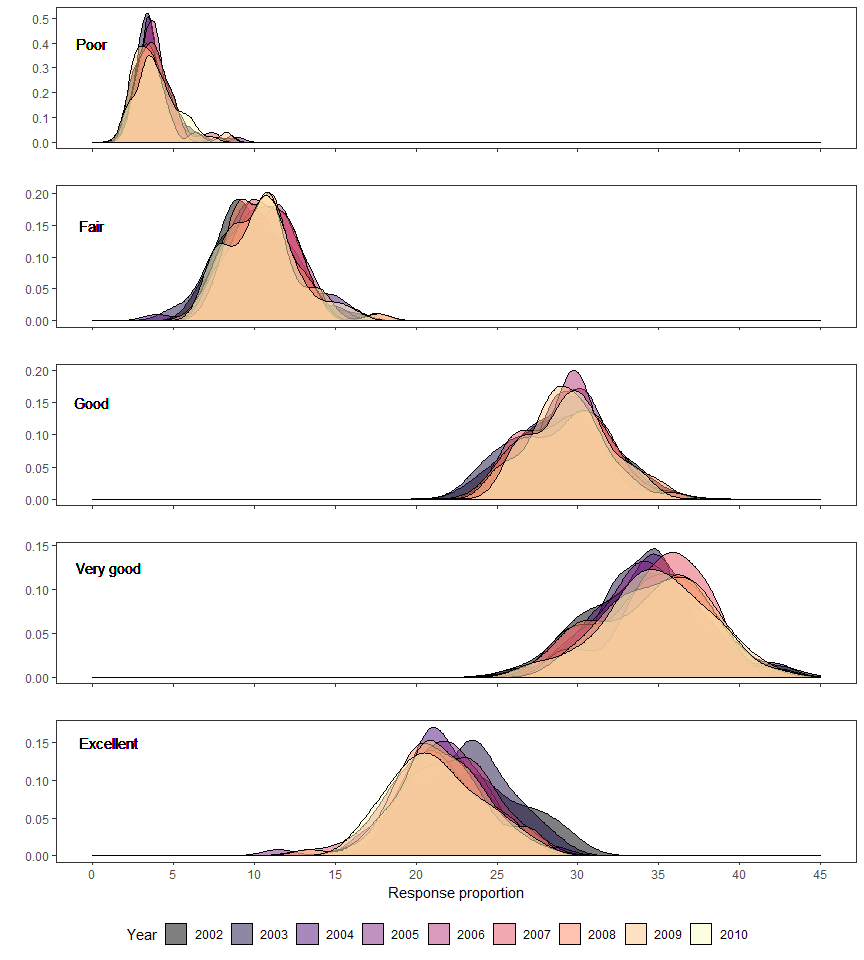
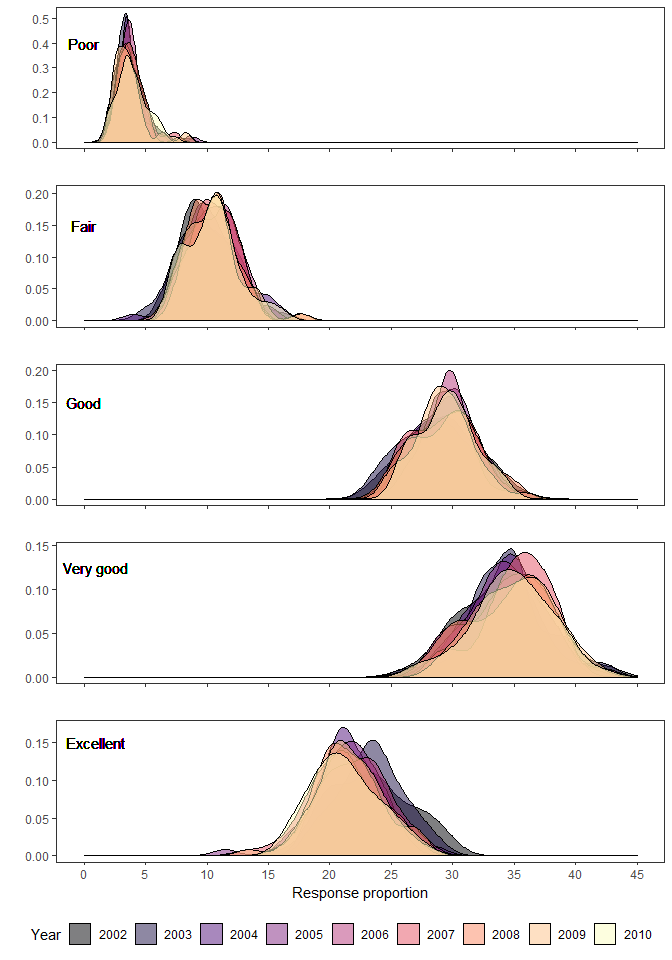
stylistic changes to figures

diff --git a/p8105_hw3_ntw2117.md b/p8105_hw3_ntw2117.md
@@ -55,7 +55,7 @@ brfss_data %>%
     guides(color = guide_legend(ncol = 17))
 ```
 
-![](p8105_hw3_ntw2117_files/figure-markdown_github/creating%20spaghetti%20plot-1.png)
+<img src="p8105_hw3_ntw2117_files/figure-markdown_github/creating spaghetti plot-1.png" style="display: block; margin: auto;" />
 
 ``` r
 brfss_data %>% 
@@ -171,7 +171,7 @@ excel_dist <- avg_response_year_state %>%
 poor_dist / fair_dist / good_dist / v_good_dist / excel_dist
 ```
 
-![](p8105_hw3_ntw2117_files/figure-markdown_github/average%20proportion,%20response%20category%20across%20location%20by%20state-1.png)
+<img src="p8105_hw3_ntw2117_files/figure-markdown_github/average proportion, response category across location by state-1.png" style="display: block; margin: auto;" />
 
 Problem 2
 ---------
@@ -211,7 +211,7 @@ numb_orders %>%
           panel.grid.minor = element_blank()) 
 ```
 
-<img src="p8105_hw3_ntw2117_files/figure-markdown_github/items ordered in each aisle-1.png" width="85%" style="display: block; margin: auto;" />
+<img src="p8105_hw3_ntw2117_files/figure-markdown_github/items ordered in each aisle-1.png" style="display: block; margin: auto;" />
 
 ``` r
 insta_data %>% 
